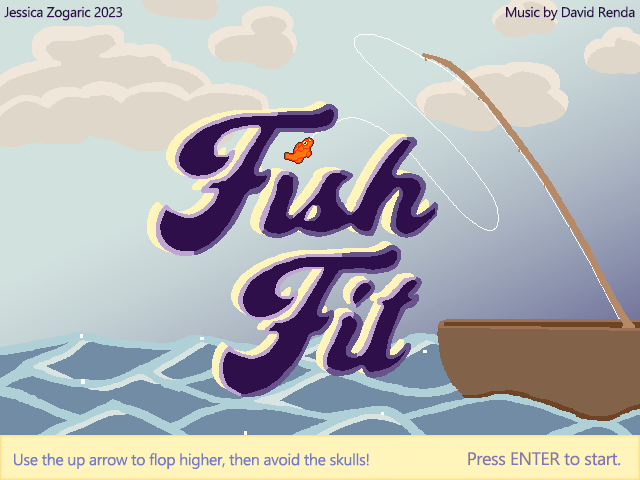
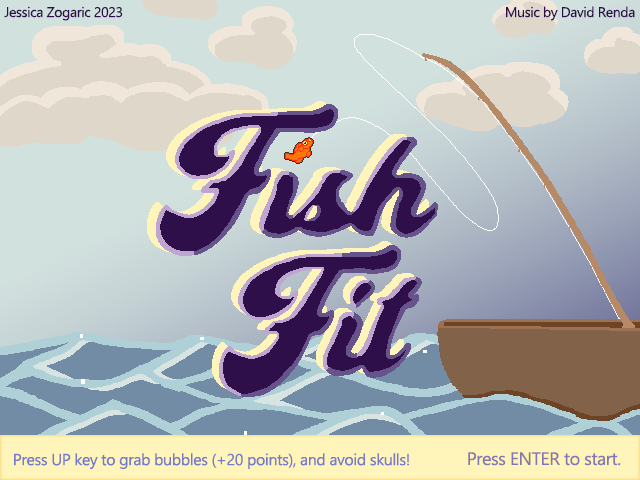
fixed title, added pop, added comment

Changed region(s): [[0.0, 0.9375, 0.6562, 0.9688]]

diff --git a/src/main.js b/src/main.js
@@ -1,8 +1,15 @@
 /*
  *  Jessica Zogaric
  *  Fish Fit
- *  Approximate time to complete: -30 hours
- *  
+ *  Approximate time to complete: -40 hours
+ *  My game has a unique visual style that makes it stand out from other endless runners.
+ *  I'm particularly very proud of the title screen that I drew in photoshop.
+ *  The artwork is all pixel art which took me a while to format correctly. 
+ *  I added photoshop photo filters to make the artwork look more warm and inviting.
+ *  In terms of technically interesting programming, I added bubbles that match the flopping fish theme and boost your score.
+ *  Although not the most technically impressive, I am proud of myself for figuring out
+ *  how to implement these features, as programming is not my strong suit and I have been struggling with Phaser. 
+ *  I also had to look beyond the class examples to figure out how to make the bubble disappear; I ended up using an overlap function.
  */
 
 //configured the screen so its 640 x 480 and pass the config thru the let game

diff --git a/src/scenes/Play.js b/src/scenes/Play.js
@@ -121,7 +121,7 @@ class Play extends Phaser.Scene {
         //trying to pop the bubble
         //collision with fish and bubble
         this.physics.add.overlap(this.bubbleGroup, this.p1Fish, () => {
-            //this.sound.play('pop'); find popping sound
+            this.sound.play('pop');
             this.bubbleGroup.clear(true, true); 
             //this.bubble.disableBody(true, true);
             this.score += 20;

diff --git a/src/scenes/Load.js b/src/scenes/Load.js
@@ -21,6 +21,7 @@ class Load extends Phaser.Scene {
         this.load.audio('blipSelect', 'audio/blipSelect.wav');
         this.load.audio('jump', 'audio/jump.wav');
         this.load.audio('hitHurt', 'audio/hitHurt.wav');
+        this.load.audio('pop', 'audio/pop.wav');
         //load img
         this.load.image('rock-fish', 'img/rock-fish.png');
         this.load.image('fish-fit-title', 'img/fish-fit-title.png');
